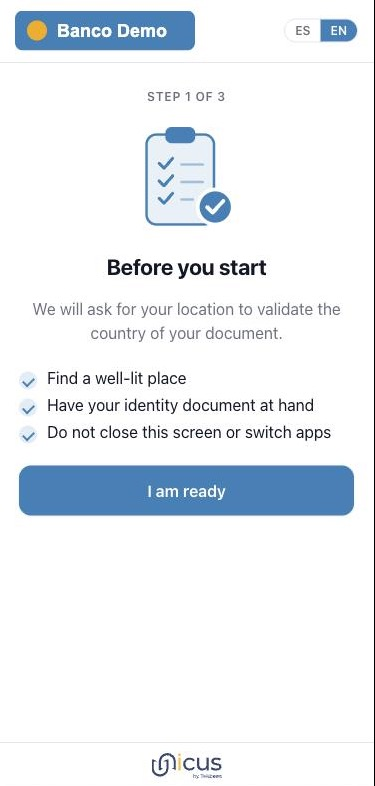
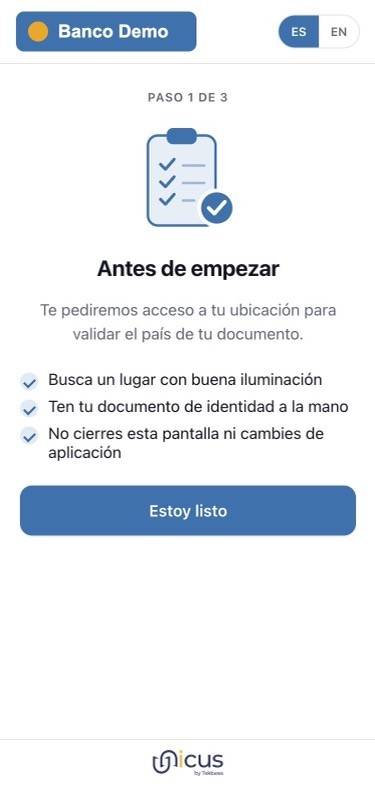
docs(web-sdk-5): Unicus Link for 5.0, English home page, 4.x marked legacy, Spanish screenshots
- New Unicus Link page in the 5.0 section (EN and ES): portal and
  init-api-transaction, what the user sees, result by webhook.
- English home page pointed to Web SDK 4.x; now 5.0, Unicus Link and mobile,
  like the Spanish one.
- Web SDK 4.x section titled and flagged as legacy on every page.
- Spanish screenshots in Spanish; hand-off screenshot with the new icons.
- Hand-off: resending a message and the message limit.

diff --git a/unicus-es/sdk-web-v5/unicus-link.md b/unicus-es/sdk-web-v5/unicus-link.md
@@ -1,0 +1,104 @@
+---
+description: >-
+  Envía al usuario un enlace de verificación en lugar de integrar el botón:
+  créalo en el portal administrativo o desde tu backend.
+---
+
+# Unicus Link
+
+Unicus Link crea un enlace de verificación que le envías al usuario por correo,
+SMS, WhatsApp o cualquier otro canal. El usuario lo abre y hace la misma
+verificación de Web SDK 5.0 que con el botón: el flujo asignado en el portal,
+los colores y el logo de tu empresa, y el traspaso al celular cuando abre el
+enlace en un computador.
+
+Úsalo cuando el usuario no pasa por tu sitio web ni por tu aplicación web. Para
+verificar al usuario dentro de tu página, usa el [botón](quick-start.md).
+
+{% hint style="info" %}
+No combines Unicus Link y el botón para el mismo usuario y el mismo proceso. El
+botón crea y abre su propia transacción; un enlace crea otra.
+{% endhint %}
+
+## Opción 1: desde el portal administrativo
+
+1. Inicia sesión en el [portal administrativo de Unicus](https://app.idunicus.com/).
+2. Abre **Unicus Link** y selecciona **Generate Link**.
+3. Ingresa los datos del documento del usuario.
+4. Envía el enlace generado al usuario por el canal que prefieras.
+
+<figure><img src="../.gitbook/assets/image (21).png" alt="Opción Generate Link en el portal administrativo" width="375"><figcaption></figcaption></figure>
+
+## Opción 2: desde tu backend
+
+<mark style="color:green;">`POST`</mark> `<unicus-server-api-url>/init-api-transaction`
+
+Llámalo solo desde tu servidor: la petición lleva tu Customer Token.
+
+### Encabezados
+
+| Nombre | Obligatorio | Descripción |
+| --- | --- | --- |
+| `X-Customer-ID` | Sí | [Customer Token](customer-token.md) del ambiente de destino. |
+| `Content-Type` | Sí | `application/json` |
+
+### Cuerpo
+
+| Nombre | Obligatorio | Ejemplo | Descripción |
+| --- | --- | --- | --- |
+| `document` | Sí | `123456789` | Número de documento del usuario. |
+| `documentType` | Sí | `ID` | Tipo de documento: `ID`, `FD`, `PP` o `DL`. |
+
+### Ejemplo
+
+{% code overflow="wrap" %}
+```bash
+curl --request POST '<unicus-server-api-url>/init-api-transaction' \
+  --header 'X-Customer-ID: <CUSTOMER_TOKEN>' \
+  --header 'Content-Type: application/json' \
+  --data '{ "document": "123456789", "documentType": "ID" }'
+```
+{% endcode %}
+
+### Respuesta
+
+{% code overflow="wrap" %}
+```json
+{
+  "success": true,
+  "resultCode": 0,
+  "resultMessage": "A Transaction Enrollment was created.",
+  "url": "https://id.idunicus.com/?token=<TID>&process=enrollment"
+}
+```
+{% endcode %}
+
+Envía el valor de `url` al usuario. El `tid` que contiene es el identificador
+de la transacción: guárdalo para relacionar el webhook y consultar el
+resultado.
+
+## Lo que ve el usuario
+
+* **En un celular o tableta,** toda la verificación ocurre en el navegador.
+* **En un computador,** los pasos anteriores al primer paso con cámara ocurren
+  ahí, y el usuario continúa en el celular por código QR, WhatsApp o SMS (ver
+  [Flujos y traspaso al celular](flows-and-handoff.md)).
+* La barra de direcciones se limpia apenas se lee el enlace: el identificador
+  de la transacción no queda en el historial del navegador.
+* Si el usuario abre el enlace después de que la transacción terminó o expiró,
+  ve "La sesión expiró o ya fue utilizada".
+
+## Cómo obtener el resultado
+
+Un enlace no tiene una página tuya alrededor, así que no hay eventos
+`OnUnicus:*` en el navegador. Tu backend recibe el resultado por el
+[webhook](webhooks.md) (`TRANSACTION_FINALIZED`) o consultando
+[el estado de la transacción](transaction-status.md) con el `tid`.
+
+## Buenas prácticas
+
+* El enlace identifica una transacción: envíalo solo a la persona que debe
+  verificarse, y no lo publiques ni lo reutilices para otra persona.
+* Si el tipo de transacción no tiene un flujo asignado, el enlace no se puede
+  usar (código de resultado `2002`): asigna el flujo en el portal primero.
+* Si el usuario perdió el enlace o expiró, crea uno nuevo.

diff --git a/unicus/sdk-web-v5/unicus-link.md b/unicus/sdk-web-v5/unicus-link.md
@@ -1,0 +1,103 @@
+---
+description: >-
+  Send the user a verification link instead of embedding the button: create it
+  in the administrative portal or from your backend.
+---
+
+# Unicus Link
+
+Unicus Link creates a verification link that you send to the user by email,
+SMS, WhatsApp or any other channel. The user opens it and goes through the same
+Web SDK 5.0 verification as with the button: the flow assigned in the portal,
+the company colours and logo, and the hand-off to the phone when the link is
+opened on a computer.
+
+Use it when the user does not go through your website or web app. To verify
+the user inside your page, use the [button](quick-start.md) instead.
+
+{% hint style="info" %}
+Do not combine Unicus Link and the button for the same user and process. The
+button creates and opens its own transaction; a link creates another one.
+{% endhint %}
+
+## Option 1: from the administrative portal
+
+1. Sign in to the [Unicus administrative portal](https://app.idunicus.com/).
+2. Open **Unicus Link** and select **Generate Link**.
+3. Enter the user's document data.
+4. Send the generated link to the user through your preferred channel.
+
+<figure><img src="../.gitbook/assets/image (21).png" alt="Generate Link option in the administrative portal" width="375"><figcaption></figcaption></figure>
+
+## Option 2: from your backend
+
+<mark style="color:green;">`POST`</mark> `<unicus-server-api-url>/init-api-transaction`
+
+Call it from your server only: the request carries your Customer Token.
+
+### Headers
+
+| Name | Required | Description |
+| --- | --- | --- |
+| `X-Customer-ID` | Yes | [Customer Token](customer-token.md) of the target environment. |
+| `Content-Type` | Yes | `application/json` |
+
+### Body
+
+| Name | Required | Example | Description |
+| --- | --- | --- | --- |
+| `document` | Yes | `123456789` | Document number of the user. |
+| `documentType` | Yes | `ID` | Document type: `ID`, `FD`, `PP` or `DL`. |
+
+### Example
+
+{% code overflow="wrap" %}
+```bash
+curl --request POST '<unicus-server-api-url>/init-api-transaction' \
+  --header 'X-Customer-ID: <CUSTOMER_TOKEN>' \
+  --header 'Content-Type: application/json' \
+  --data '{ "document": "123456789", "documentType": "ID" }'
+```
+{% endcode %}
+
+### Response
+
+{% code overflow="wrap" %}
+```json
+{
+  "success": true,
+  "resultCode": 0,
+  "resultMessage": "A Transaction Enrollment was created.",
+  "url": "https://id.idunicus.com/?token=<TID>&process=enrollment"
+}
+```
+{% endcode %}
+
+Send the `url` value to the user. The `tid` in it is the transaction id: keep
+it to correlate the webhook and to query the result.
+
+## What the user sees
+
+* **On a phone or tablet,** the whole verification runs in the browser.
+* **On a computer,** the steps before the first camera step run there, and the
+  user continues on the phone by QR code, WhatsApp or SMS (see
+  [Flows and hand-off](flows-and-handoff.md)).
+* The address bar is cleaned as soon as the link is read: the transaction id
+  does not stay in the browser history.
+* Reopening the link after the transaction finished or expired shows "the
+  session expired or was already used".
+
+## Getting the result
+
+A link has no page of yours around it, so there are no `OnUnicus:*` browser
+events. Your backend receives the result through the
+[webhook](webhooks.md) (`TRANSACTION_FINALIZED`) or by calling
+[Get a transaction status](transaction-status.md) with the `tid`.
+
+## Good practices
+
+* The link identifies one transaction: send it only to the person who has to
+  verify, and do not publish it or reuse it for someone else.
+* Without a flow assigned to the transaction type, the link cannot be used
+  (result code `2002`): assign the flow in the portal first.
+* If the user lost the link or it expired, create a new one.

diff --git a/unicus/README.md b/unicus/README.md
@@ -8,8 +8,10 @@ Here you will find all the information you need to implement the Unicus identity
 
 ## How can you get started?
 
-There are two options to start implementing the solution, review them and choose the one that best suits your processes.
+Choose the integration that best fits your processes:
 
-1. Use our implementation method with [Unicus SDK](sdk-web/unicus-button.md).
-2. Service implementation using [Unicus link](sdk-web/unicus-link.md).
+1. On a web page, with the [Unicus Web SDK 5.0](sdk-web-v5/overview.md) button. To go straight to the code, start with the [Quick start](sdk-web-v5/quick-start.md) and the [Integration checklist](sdk-web-v5/integration-checklist.md).
+2. Without a page of your own, by sending the user a verification link with [Unicus Link](sdk-web-v5/unicus-link.md).
+3. In a mobile app, with the [Flutter](mobile-sdk/flutter-integration.md), [Android](mobile-sdk/android-integration.md) or [iOS](mobile-sdk/ios-integration.md) SDK.
 
+Already integrated with Web SDK 4.x? Read [Migration from Web SDK 4.x](sdk-web-v5/migration-from-v4.md).

diff --git a/unicus-es/README.md b/unicus-es/README.md
@@ -11,4 +11,7 @@ Aquí encontrarás toda la información que necesitas para implementar la soluci
 Elige la integración que mejor se adapte a tus procesos:
 
 1. En una página web, con el botón de [Unicus Web SDK 5.0](sdk-web-v5/overview.md). Si quieres ir directo al código, empieza por el [Inicio rápido](sdk-web-v5/quick-start.md) y la [Lista de integración](sdk-web-v5/integration-checklist.md).
-2. En una aplicación móvil, con el SDK de [Flutter](mobile-sdk/flutter-integration.md), [Android](mobile-sdk/android-integration.md) o [iOS](mobile-sdk/ios-integration.md).
+2. Sin una página propia, enviándole al usuario un enlace de verificación con [Unicus Link](sdk-web-v5/unicus-link.md).
+3. En una aplicación móvil, con el SDK de [Flutter](mobile-sdk/flutter-integration.md), [Android](mobile-sdk/android-integration.md) o [iOS](mobile-sdk/ios-integration.md).
+
+¿Ya integraste Web SDK 4.x? Lee [Migración desde Web SDK 4.x](sdk-web-v5/migration-from-v4.md).

diff --git a/unicus-es/sdk-web-v5/flows-and-handoff.md b/unicus-es/sdk-web-v5/flows-and-handoff.md
@@ -109,7 +109,10 @@ paso de cámara, la aplicación web ofrece los canales de traspaso al celular
 
 Cuando el código QR es el único canal de tu empresa, el computador pasa
 directamente al código QR. Cada mensaje de WhatsApp o SMS lleva un enlace nuevo;
-el código QR conserva su enlace mientras sea válido.
+el código QR conserva su enlace mientras sea válido. Si un mensaje no llega, el
+usuario puede enviarlo de nuevo después de unos segundos; Unicus limita cuántos
+mensajes pueden recibir una transacción y un número de celular, y lo indica en
+la pantalla cuando se alcanza el límite (el usuario aún puede usar el código QR).
 
 <figure><img src="../.gitbook/assets/web-sdk-5-handoff-options.jpg" alt="Opciones de traspaso en un computador: código QR, WhatsApp y SMS" width="563"><figcaption><p>Los canales habilitados para la empresa, ofrecidos en el computador.</p></figcaption></figure>
 

diff --git a/unicus/sdk-web-v5/flows-and-handoff.md b/unicus/sdk-web-v5/flows-and-handoff.md
@@ -102,7 +102,10 @@ offers the hand-off channels enabled for your company:
 
 When the QR code is the only channel of your company, the computer goes
 straight to the QR code. Each WhatsApp or SMS message carries a new link; the
-QR code keeps its link while it is valid.
+QR code keeps its link while it is valid. If a message does not arrive, the
+user can send it again after a few seconds; Unicus limits how many messages
+one transaction and one phone number can receive, and says so on the screen
+when the limit is reached (the user can still use the QR code).
 
 <figure><img src="../.gitbook/assets/web-sdk-5-handoff-options.jpg" alt="Hand-off options on a computer: QR code, WhatsApp and SMS" width="563"><figcaption><p>The channels enabled for the company, offered on the computer.</p></figcaption></figure>
 

diff --git a/unicus/sdk-web/types-webhook.md b/unicus/sdk-web/types-webhook.md
@@ -7,6 +7,13 @@ description: >-
 
 # Webhooks
 
+{% hint style="warning" %}
+**Web SDK 4.x (legacy).** This section documents the previous web SDK. When
+Web SDK 5.0 is released, 4.x stops working and every integration runs 5.0. For
+new integrations use [Web SDK 5.0](../sdk-web-v5/overview.md); for existing
+ones, read [Migration from Web SDK 4.x](../sdk-web-v5/migration-from-v4.md).
+{% endhint %}
+
 ### How to configure and/or customize the Webhook? :pencil2:&#x20;
 
 When logging into the [administrative panel](https://app.idunicus.com/) you will find a tab called **Company**, select it followed by the option Settings and you will be able to see the webhook you have configured to edit it, in case you do not have it you can add it.

diff --git a/unicus/sdk-web/how-to-get-customer-token.md b/unicus/sdk-web/how-to-get-customer-token.md
@@ -1,5 +1,12 @@
 # How to get Customer Token?
 
+{% hint style="warning" %}
+**Web SDK 4.x (legacy).** This section documents the previous web SDK. When
+Web SDK 5.0 is released, 4.x stops working and every integration runs 5.0. For
+new integrations use [Web SDK 5.0](../sdk-web-v5/overview.md); for existing
+ones, read [Migration from Web SDK 4.x](../sdk-web-v5/migration-from-v4.md).
+{% endhint %}
+
 When you log in to the [administration panel](https://app.idunicus.com) you will find a tab called **Company**, select it followed by the option **Settings** and you will be able to view your token and click to copy it or generate a new one if necessary.
 
 In Unicus Button integrations, this value is passed in the `customerid`

diff --git a/unicus/SUMMARY.md b/unicus/SUMMARY.md
@@ -10,6 +10,7 @@
 * [Button reference](sdk-web-v5/button-reference.md)
 * [Events](sdk-web-v5/events.md)
 * [Flows and hand-off](sdk-web-v5/flows-and-handoff.md)
+* [Unicus Link](sdk-web-v5/unicus-link.md)
 * [Texts and languages](sdk-web-v5/texts-and-languages.md)
 * [Result codes](sdk-web-v5/result-codes.md)
 * [Errors and troubleshooting](sdk-web-v5/errors-and-troubleshooting.md)
@@ -21,7 +22,7 @@
 * [Versioning](sdk-web-v5/versioning.md)
 * [Support](sdk-web-v5/support.md)
 
-## WEB SDK INTEGRATION PROCESS <a href="#sdk-web" id="sdk-web"></a>
+## WEB SDK 4.x INTEGRATION PROCESS (LEGACY) <a href="#sdk-web" id="sdk-web"></a>
 
 * [Integration overview](sdk-web/integration.md)
 * [Unicus Button](sdk-web/unicus-button.md)

diff --git a/unicus/sdk-web/support.md b/unicus/sdk-web/support.md
@@ -1,5 +1,12 @@
 # Support
 
+{% hint style="warning" %}
+**Web SDK 4.x (legacy).** This section documents the previous web SDK. When
+Web SDK 5.0 is released, 4.x stops working and every integration runs 5.0. For
+new integrations use [Web SDK 5.0](../sdk-web-v5/overview.md); for existing
+ones, read [Migration from Web SDK 4.x](../sdk-web-v5/migration-from-v4.md).
+{% endhint %}
+
 The most important thing for us is that you manage to implement the transactional process effectively. In case of any new developments, you can report them through the channels provided for this purpose:
 
 * E-mail addressed to: [support@tekbees.com](mailto:support@tekbees.com)&#x20;

diff --git a/unicus/sdk-web/unicus-button.md b/unicus/sdk-web/unicus-button.md
@@ -6,6 +6,13 @@ description: >-
 
 # Unicus Button
 
+{% hint style="warning" %}
+**Web SDK 4.x (legacy).** This section documents the previous web SDK. When
+Web SDK 5.0 is released, 4.x stops working and every integration runs 5.0. For
+new integrations use [Web SDK 5.0](../sdk-web-v5/overview.md); for existing
+ones, read [Migration from Web SDK 4.x](../sdk-web-v5/migration-from-v4.md).
+{% endhint %}
+
 Unicus Button is a web component that starts the Unicus verification flow from
 your web page. The customer application integrates **Unicus** only: add the
 script, render `<unicus-btn>`, pass the required attributes, and listen for

diff --git a/unicus/sdk-web/get-a-transaction-status.md b/unicus/sdk-web/get-a-transaction-status.md
@@ -1,5 +1,12 @@
 # Get a transaction status
 
+{% hint style="warning" %}
+**Web SDK 4.x (legacy).** This section documents the previous web SDK. When
+Web SDK 5.0 is released, 4.x stops working and every integration runs 5.0. For
+new integrations use [Web SDK 5.0](../sdk-web-v5/overview.md); for existing
+ones, read [Migration from Web SDK 4.x](../sdk-web-v5/migration-from-v4.md).
+{% endhint %}
+
 Use this endpoint from your backend to query the current or final status of a
 Unicus transaction. The request requires the transaction id, called `tid`, and
 the Customer Token assigned to the company.
